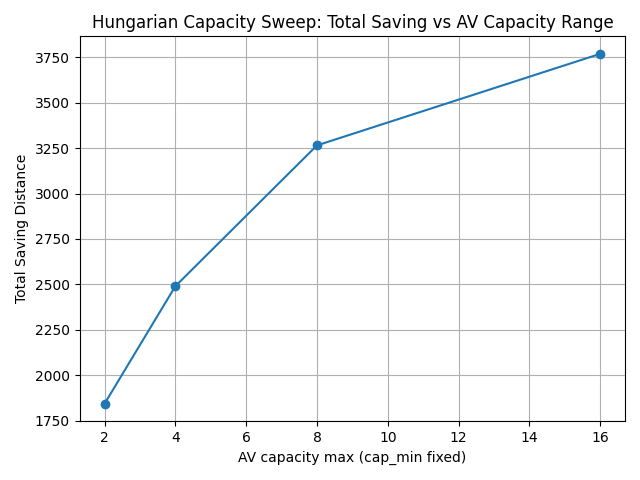
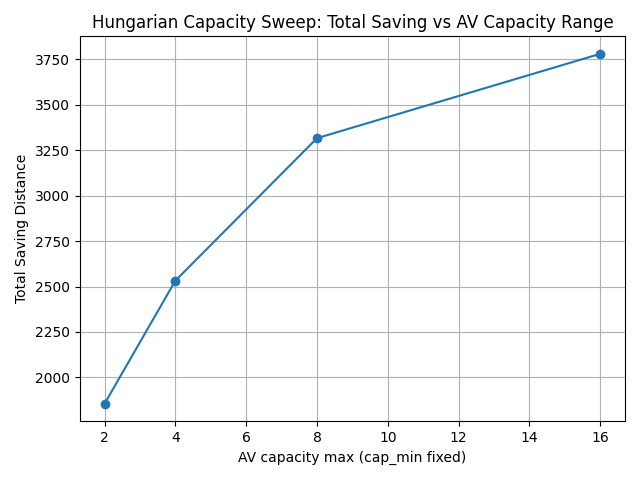
modify hungarian algorithm

diff --git a/core/hungarian_multi.py b/core/hungarian_multi.py
@@ -460,7 +460,7 @@ def hungarian_multi_av_matching(
 
         row_to_col = _hungarian_min_cost(cost)
 
-        assignments_this_round: List[Tuple[SegmentAssignment, int, float, float]] = []  # 🔧 Add time types
+        assignments_this_round: List[Tuple[SegmentAssignment, int, float, float]] = []
 
         for slot_idx in range(min(len(row_to_col), num_slots)):
             col_idx = row_to_col[slot_idx]
@@ -471,30 +471,32 @@ def hungarian_multi_av_matching(
             if (slot_idx, col_idx) not in feasible:
                 continue
 
-            saving, cp, dp, coupling_time, decoupling_time = feasible[(slot_idx, col_idx)]  # 🔧 Unpack all
+            saving, cp, dp, coupling_time, decoupling_time = feasible[(slot_idx, col_idx)]
             av, _ = slot_to_av[slot_idx]
             pv = pvs[col_idx]
 
             assignment = SegmentAssignment(
                 pv=pv, av=av, cp=cp, dp=dp,
-                coupling_time=coupling_time,  # 🔧 ADD
-                decoupling_time=decoupling_time  # 🔧 ADD
+                coupling_time=coupling_time,
+                decoupling_time=decoupling_time
             )
-            assignments_this_round.append((assignment, saving, coupling_time, decoupling_time))  # 🔧 Store time
+            assignments_this_round.append((assignment, saving, coupling_time, decoupling_time))
 
         if not assignments_this_round:
             break
 
-        assignments_this_round.sort(key=lambda x: x[1], reverse=True)
+        # 🔧 FIX: Take ONLY ONE best assignment per round
+        # This ensures each Hungarian solution is applied atomically
+        best_assignment = None
+        best_saving = 0
 
-        for assignment, saving, coupling_time, decoupling_time in assignments_this_round:  # 🔧 Unpack time
+        for assignment, saving, coupling_time, decoupling_time in assignments_this_round:
             pv_id = assignment.pv.id
             cp, dp = assignment.cp, assignment.dp
 
-            # Check if this segment conflicts with PV's current state
+            # Validate
             pv_state = pv_states[pv_id]
             
-            # Verify segment is still uncovered
             overlap_valid = False
             for seg_start, seg_end in pv_state.uncovered_segments:
                 if cp >= seg_start and dp <= seg_end:
@@ -502,22 +504,34 @@ def hungarian_multi_av_matching(
                     break
             
             if not overlap_valid:
-                continue  # Segment no longer available
+                continue
 
-            # Check AV capacity
             av_state = av_states[assignment.av.id]
             if not av_state.can_accommodate_segment(cp, dp):
                 continue
 
-            # ✅ Valid assignment - apply it
-            all_assignments.append(assignment)
-            pv_assignments[pv_id].append(assignment)
-            total_saving += saving
+            # 🔧 NEW: Take only the single best valid assignment
+            if saving > best_saving:
+                best_assignment = assignment
+                best_saving = saving
 
-            # 🔧 FIX: Pass time info to state update
-            pv_states[pv_id].mark_segment_covered(
-                cp, dp, coupling_time, decoupling_time, assignment.av.speed
-            )
-            av_states[assignment.av.id].add_assignment(cp, dp)
+        # 🔧 NEW: Apply only the best assignment
+        if best_assignment is None or best_saving == 0:
+            break
+
+        pv_id = best_assignment.pv.id
+        all_assignments.append(best_assignment)
+        pv_assignments[pv_id].append(best_assignment)
+        total_saving += best_saving
+
+        # Update states
+        pv_states[pv_id].mark_segment_covered(
+            best_assignment.cp, best_assignment.dp,
+            best_assignment.coupling_time, best_assignment.decoupling_time,
+            best_assignment.av.speed
+        )
+        av_states[best_assignment.av.id].add_assignment(
+            best_assignment.cp, best_assignment.dp
+        )
 
     return all_assignments, total_saving, pv_assignments

diff --git a/visualization/figures/comparison/tables/comparison_report.md b/visualization/figures/comparison/tables/comparison_report.md
@@ -12,10 +12,10 @@
 
 | capacity_max | Runtime (sec) (G) | Runtime (sec) (H) | Runtime (sec) (%) | Total Saving (G) | Total Saving (H) | Total Saving (%) | Match Ratio (G) | Match Ratio (H) | Match Ratio (%) | Avg Saving/PV (G) | Avg Saving/PV (H) | Avg Saving/PV (%) | Saving % (G) | Saving % (H) | Saving % (%) |
 | --- | --- | --- | --- | --- | --- | --- | --- | --- | --- | --- | --- | --- | --- | --- | --- |
-| 2 | 0.2082 | 1.1087 | 18.8% | 1834.33 | 1843.67 | 99.5% | 0.312 | 0.328 | 94.9% | 29.44 | 28.10 | 104.8% | 23.76 | 23.88 | 99.5% |
-| 4 | 0.2918 | 3.1018 | 9.4% | 2486.33 | 2490.33 | 99.8% | 0.458 | 0.467 | 98.2% | 27.11 | 26.64 | 101.8% | 32.19 | 32.24 | 99.8% |
-| 8 | 0.4147 | 12.9547 | 3.2% | 3300.67 | 3265.00 | 101.1% | 0.618 | 0.635 | 97.4% | 26.68 | 25.67 | 103.9% | 42.75 | 42.28 | 101.1% |
-| 16 | 0.4250 | 56.0834 | 0.8% | 3784.67 | 3768.67 | 100.4% | 0.705 | 0.722 | 97.7% | 26.84 | 26.10 | 102.8% | 49.01 | 48.79 | 100.4% |
+| 2 | 0.2082 | 29.8367 | 0.7% | 1834.33 | 1855.33 | 98.9% | 0.312 | 0.327 | 95.4% | 29.44 | 28.38 | 103.7% | 23.76 | 24.03 | 98.9% |
+| 4 | 0.2918 | 63.9472 | 0.5% | 2486.33 | 2532.33 | 98.2% | 0.458 | 0.465 | 98.6% | 27.11 | 27.20 | 99.7% | 32.19 | 32.79 | 98.2% |
+| 8 | 0.4147 | 192.0298 | 0.2% | 3300.67 | 3316.00 | 99.5% | 0.618 | 0.630 | 98.1% | 26.68 | 26.29 | 101.5% | 42.75 | 42.96 | 99.5% |
+| 16 | 0.4250 | 802.5782 | 0.1% | 3784.67 | 3780.00 | 100.1% | 0.705 | 0.707 | 99.8% | 26.84 | 26.74 | 100.4% | 49.01 | 48.93 | 100.1% |
 
 ## Length Sweep
 
@@ -104,8 +104,8 @@
 
 | Metric | Mean (%) | Std (%) | Min (%) | Max (%) |
 | --- | --- | --- | --- | --- |
-| Runtime (sec) | 7.14 | 5.40 | 0.08 | 18.95 |
-| Total Saving | 99.82 | 1.09 | 97.37 | 102.44 |
-| Match Ratio | 97.25 | 2.03 | 93.73 | 100.00 |
-| Avg Saving/PV | 102.70 | 1.81 | 99.06 | 105.64 |
-| Saving % | 99.81 | 1.09 | 97.37 | 102.41 |
+| Runtime (sec) | 6.29 | 5.30 | 0.05 | 18.95 |
+| Total Saving | 99.70 | 1.10 | 97.37 | 102.44 |
+| Match Ratio | 97.36 | 2.07 | 93.73 | 100.00 |
+| Avg Saving/PV | 102.47 | 1.87 | 99.06 | 105.64 |
+| Saving % | 99.70 | 1.10 | 97.37 | 102.41 |
